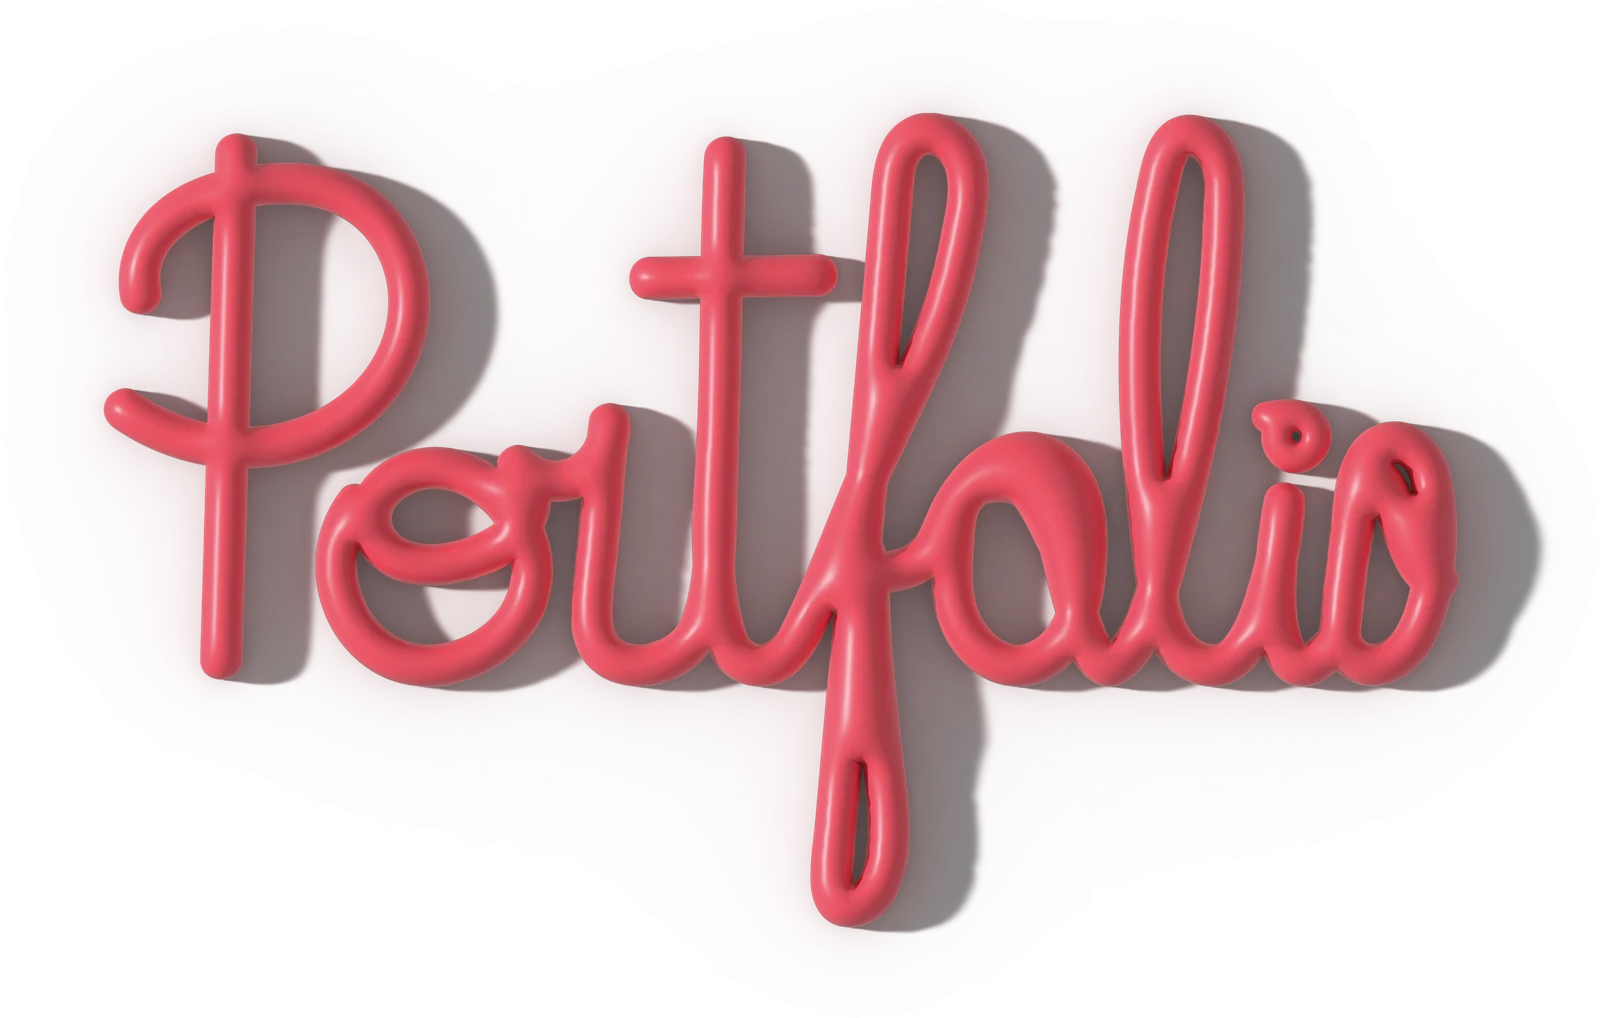
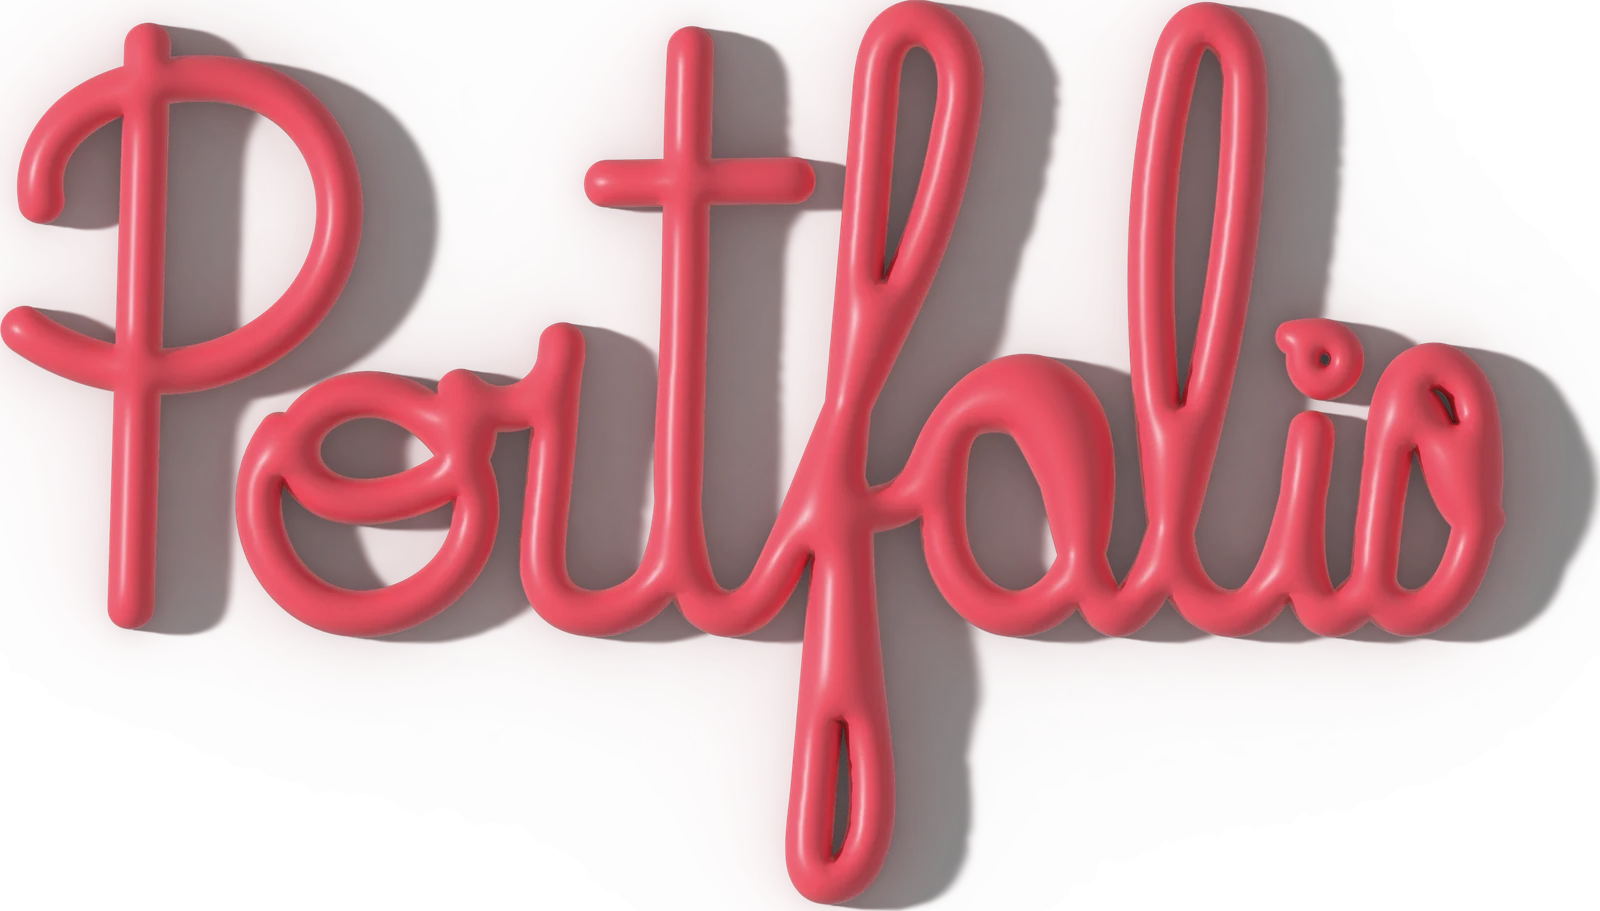
mise a jour du hero

diff --git a/lib/presentation/home/sections/hero_section.dart b/lib/presentation/home/sections/hero_section.dart
@@ -27,18 +27,17 @@ class HeroSection extends StatelessWidget {
   Widget build(BuildContext context) {
     final ScreenSize size = Breakpoints.of(context);
     final double wordmarkWidth =
-        responsive<double>(size, mobile: 320, tablet: 470, desktop: 610);
+        responsive<double>(size, mobile: 344, tablet: 600, desktop: 790);
     final double ledeSize =
         responsive<double>(size, mobile: 14.5, tablet: 17, desktop: 19);
     final double ledeWidth =
         responsive<double>(size, mobile: 520, tablet: 580, desktop: 660);
-    final double minHeight =
-        (MediaQuery.sizeOf(context).height - topPadding).clamp(440.0, 880.0);
+    final bool hasSentence = profile.heroSentence.trim().isNotEmpty;
 
     return Padding(
       padding: EdgeInsets.only(
         top: topPadding,
-        bottom: responsive<double>(size, mobile: 30, tablet: 50, desktop: 70),
+        bottom: responsive<double>(size, mobile: 34, tablet: 54, desktop: 74),
       ),
       child: Stack(
         children: <Widget>[
@@ -48,78 +47,75 @@ class HeroSection extends StatelessWidget {
               center: const Alignment(0, -0.1),
             ),
           ),
-          ConstrainedBox(
-            constraints: BoxConstraints(minHeight: minHeight),
-            child: Center(
-              child: ContentContainer(
-                child: Reveal(
-                  offsetY: 20,
-                  child: Column(
-                    mainAxisSize: MainAxisSize.min,
-                    crossAxisAlignment: CrossAxisAlignment.center,
+          ContentContainer(
+            child: Reveal(
+              offsetY: 20,
+              child: Column(
+                mainAxisSize: MainAxisSize.min,
+                crossAxisAlignment: CrossAxisAlignment.center,
+                children: <Widget>[
+                  SizedBox(
+                    width: wordmarkWidth,
+                    child: AspectRatio(
+                      aspectRatio: 1600 / 911,
+                      child: Image.asset(
+                        'assets/images/portfolio-wordmark.webp',
+                        fit: BoxFit.contain,
+                        filterQuality: FilterQuality.high,
+                        semanticLabel: 'Portfolio',
+                      ),
+                    ),
+                  ),
+                  if (hasSentence) ...<Widget>[
+                    SizedBox(
+                      height: responsive<double>(size,
+                          mobile: 0, tablet: 2, desktop: 4),
+                    ),
+                    ConstrainedBox(
+                      constraints: BoxConstraints(maxWidth: ledeWidth),
+                      child: HeroSentence(
+                        text: profile.heroSentence,
+                        style: AppText.lede.copyWith(
+                          fontSize: ledeSize,
+                          height: 1.6,
+                        ),
+                        accentStyle: const TextStyle(
+                          color: AppColors.ink,
+                          fontWeight: FontWeight.w700,
+                        ),
+                      ),
+                    ),
+                  ],
+                  SizedBox(
+                    height: responsive<double>(size,
+                        mobile: 10, tablet: 12, desktop: 14),
+                  ),
+                  Text(
+                    profile.signature,
+                    textAlign: TextAlign.center,
+                    style: AppText.signature(
+                      responsive<double>(size,
+                          mobile: 29, tablet: 32, desktop: 36),
+                    ),
+                  ),
+                  SizedBox(
+                    height: responsive<double>(size,
+                        mobile: 12, tablet: 14, desktop: 16),
+                  ),
+                  Wrap(
+                    alignment: WrapAlignment.center,
+                    spacing: 10,
+                    runSpacing: 10,
                     children: <Widget>[
-                      SizedBox(
-                        width: wordmarkWidth,
-                        child: AspectRatio(
-                          aspectRatio: 1600 / 1018,
-                          child: Image.asset(
-                            'assets/images/portfolio-wordmark.webp',
-                            fit: BoxFit.contain,
-                            filterQuality: FilterQuality.high,
-                            semanticLabel: 'Portfolio',
-                          ),
-                        ),
-                      ),
-                      SizedBox(
-                        height: responsive<double>(size,
-                            mobile: 4, tablet: 6, desktop: 8),
-                      ),
-                      ConstrainedBox(
-                        constraints: BoxConstraints(maxWidth: ledeWidth),
-                        child: HeroSentence(
-                          text: profile.heroSentence,
-                          style: AppText.lede.copyWith(
-                            fontSize: ledeSize,
-                            height: 1.6,
-                          ),
-                          accentStyle: const TextStyle(
-                            color: AppColors.ink,
-                            fontWeight: FontWeight.w700,
-                          ),
-                        ),
-                      ),
-                      SizedBox(
-                        height: responsive<double>(size,
-                            mobile: 12, tablet: 15, desktop: 17),
-                      ),
-                      Text(
-                        profile.signature,
-                        textAlign: TextAlign.center,
-                        style: AppText.signature(
-                          responsive<double>(size,
-                              mobile: 29, tablet: 32, desktop: 36),
-                        ),
-                      ),
-                      SizedBox(
-                        height: responsive<double>(size,
-                            mobile: 14, tablet: 17, desktop: 19),
-                      ),
-                      Wrap(
-                        alignment: WrapAlignment.center,
-                        spacing: 10,
-                        runSpacing: 10,
-                        children: <Widget>[
-                          PillButton(label: 'Mes projets', onTap: onProjects),
-                          PillButton(
-                            label: 'Me contacter',
-                            variant: PillVariant.ghost,
-                            onTap: onContact,
-                          ),
-                        ],
+                      PillButton(label: 'Mes projets', onTap: onProjects),
+                      PillButton(
+                        label: 'Me contacter',
+                        variant: PillVariant.ghost,
+                        onTap: onContact,
                       ),
                     ],
                   ),
-                ),
+                ],
               ),
             ),
           ),

diff --git a/lib/presentation/home/sections/site_header.dart b/lib/presentation/home/sections/site_header.dart
@@ -19,19 +19,21 @@ class SiteHeader extends StatelessWidget {
     super.key,
     required this.scrollOffset,
     required this.onContact,
+    required this.onLogoTap,
     this.navItems = const <NavItem>[],
   });
 
   final ValueListenable<double> scrollOffset;
   final VoidCallback onContact;
+  final VoidCallback onLogoTap;
   final List<NavItem> navItems;
 
   static double barHeight(BuildContext context) {
     return responsive<double>(
       Breakpoints.of(context),
-      mobile: 74,
-      tablet: 76,
-      desktop: 82,
+      mobile: 58,
+      tablet: 60,
+      desktop: 64,
     );
   }
 
@@ -50,7 +52,7 @@ class SiteHeader extends StatelessWidget {
         final double t = (offset / 48).clamp(0.0, 1.0);
         return DecoratedBox(
           decoration: BoxDecoration(
-            color: AppColors.cream.withValues(alpha: 0.72 + 0.28 * t),
+            color: AppColors.cream.withValues(alpha: t),
             border: Border(
               bottom: BorderSide(
                 color: AppColors.line.withValues(alpha: 0.14 * t),
@@ -74,12 +76,26 @@ class SiteHeader extends StatelessWidget {
           child: ContentContainer(
             child: Row(
               children: <Widget>[
-                Image.asset(
-                  'assets/logo/logo.png',
-                  height: responsive<double>(size,
-                      mobile: 32, tablet: 36, desktop: 40),
-                  filterQuality: FilterQuality.high,
-                  semanticLabel: 'Amar Hammour',
+                Tooltip(
+                  message: 'Retour en haut',
+                  waitDuration: const Duration(milliseconds: 600),
+                  child: HoverRegion(
+                    onTap: onLogoTap,
+                    builder: (BuildContext context, bool hovered) {
+                      return AnimatedScale(
+                        duration: const Duration(milliseconds: 200),
+                        curve: Curves.easeOut,
+                        scale: hovered ? 1.08 : 1,
+                        child: Image.asset(
+                          'assets/logo/logo.png',
+                          height: responsive<double>(size,
+                              mobile: 30, tablet: 32, desktop: 36),
+                          filterQuality: FilterQuality.high,
+                          semanticLabel: 'Amar Hammour, retour en haut',
+                        ),
+                      );
+                    },
+                  ),
                 ),
                 const Spacer(),
                 if (showNav) ...<Widget>[

diff --git a/lib/presentation/home/home_page.dart b/lib/presentation/home/home_page.dart
@@ -83,11 +83,20 @@ class _HomePageState extends State<HomePage> {
   }
 
   Future<void> _scrollToTop() {
+    if (!_scrollController.hasClients) return Future<void>.value();
     return _scrollController.animateTo(
       0,
       duration: const Duration(milliseconds: 650),
       curve: Curves.easeInOutCubic,
     );
+  }
+
+  void _goHome() {
+    final NavigatorState navigator = Navigator.of(context);
+    if (navigator.canPop()) {
+      navigator.popUntil((Route<dynamic> route) => route.isFirst);
+    }
+    _scrollToTop();
   }
 
   @override
@@ -109,7 +118,8 @@ class _HomePageState extends State<HomePage> {
                   children: <Widget>[
                     HeroSection(
                       profile: content.profile,
-                      topPadding: SiteHeader.totalHeight(context),
+                      topPadding: SiteHeader.totalHeight(context) -
+                          SiteHeader.barHeight(context) * 0.45,
                       onProjects: () => _scrollTo(_projectsKey, extra: 12),
                       onContact: () => _scrollTo(_contactKey),
                     ),
@@ -157,6 +167,7 @@ class _HomePageState extends State<HomePage> {
               child: SiteHeader(
                 scrollOffset: _scrollOffset,
                 onContact: () => _scrollTo(_contactKey),
+                onLogoTap: _goHome,
                 navItems: <NavItem>[
                   NavItem(
                     label: 'Projets',

diff --git a/test/widget_test.dart b/test/widget_test.dart
@@ -2,7 +2,6 @@ import 'package:flutter/material.dart';
 import 'package:flutter_test/flutter_test.dart';
 import 'package:portfolio/app.dart';
 import 'package:portfolio/data/repositories/static_portfolio_repository.dart';
-import 'package:portfolio/presentation/widgets/hero_sentence.dart';
 import 'package:portfolio/presentation/widgets/project_card.dart';
 import 'package:portfolio/presentation/widgets/testimonial_card.dart';
 
@@ -13,7 +12,7 @@ Future<void> _settle(WidgetTester tester) async {
 }
 
 void main() {
-  testWidgets('Le hero affiche la phrase et la signature',
+  testWidgets('Le hero affiche la signature et les boutons',
       (WidgetTester tester) async {
     tester.view.physicalSize = const Size(390, 844);
     tester.view.devicePixelRatio = 1.0;
@@ -24,11 +23,12 @@ void main() {
     );
     await _settle(tester);
 
-    expect(find.byType(HeroSentence), findsOneWidget);
     expect(
       find.text(StaticPortfolioRepository.content.profile.signature),
       findsWidgets,
     );
+    expect(find.text('Mes projets'), findsOneWidget);
+    expect(find.text('Me contacter'), findsWidgets);
   });
 
   testWidgets('Tous les projets et témoignages sont rendus',

diff --git a/lib/data/repositories/supabase_portfolio_repository.dart b/lib/data/repositories/supabase_portfolio_repository.dart
@@ -49,8 +49,8 @@ class SupabasePortfolioRepository implements PortfolioRepository {
     return PortfolioContent(
       profile: ProfileInfo(
         role: _text(settings, 'role', _fallback.profile.role),
-        heroSentence: _text(
-            settings, 'hero_sentence', _fallback.profile.heroSentence),
+        heroSentence:
+            (settings['hero_sentence'] as String?)?.trim() ?? '',
         firstName: _text(settings, 'first_name', _fallback.profile.firstName),
         lastName: _text(settings, 'last_name', _fallback.profile.lastName),
         subrole: _text(settings, 'subrole', _fallback.profile.subrole),

diff --git a/lib/data/repositories/static_portfolio_repository.dart b/lib/data/repositories/static_portfolio_repository.dart
@@ -27,9 +27,7 @@ class StaticPortfolioRepository implements PortfolioRepository {
   static const PortfolioContent content = PortfolioContent(
     profile: ProfileInfo(
       role: 'Web Designer',
-      heroSentence:
-          "Bonjour, moi c'est • *Amar Hammour*. Je conçois des • expériences "
-          'digitales qui aident les marques à se démarquer.',
+      heroSentence: '',
       firstName: 'Amar',
       lastName: 'Hammour',
       subrole: 'Web Designer & Digital Creative',

diff --git a/lib/presentation/admin/admin_tabs.dart b/lib/presentation/admin/admin_tabs.dart
@@ -14,7 +14,7 @@ class SettingsTab extends StatefulWidget {
   static const List<AdminField> fields = <AdminField>[
     AdminField(
       'hero_sentence',
-      'Phrase de présentation du hero',
+      'Phrase du hero (optionnelle, vide = rien)',
       kind: AdminFieldKind.multiline,
       hint: '*mot* = mis en avant en gras',
     ),
